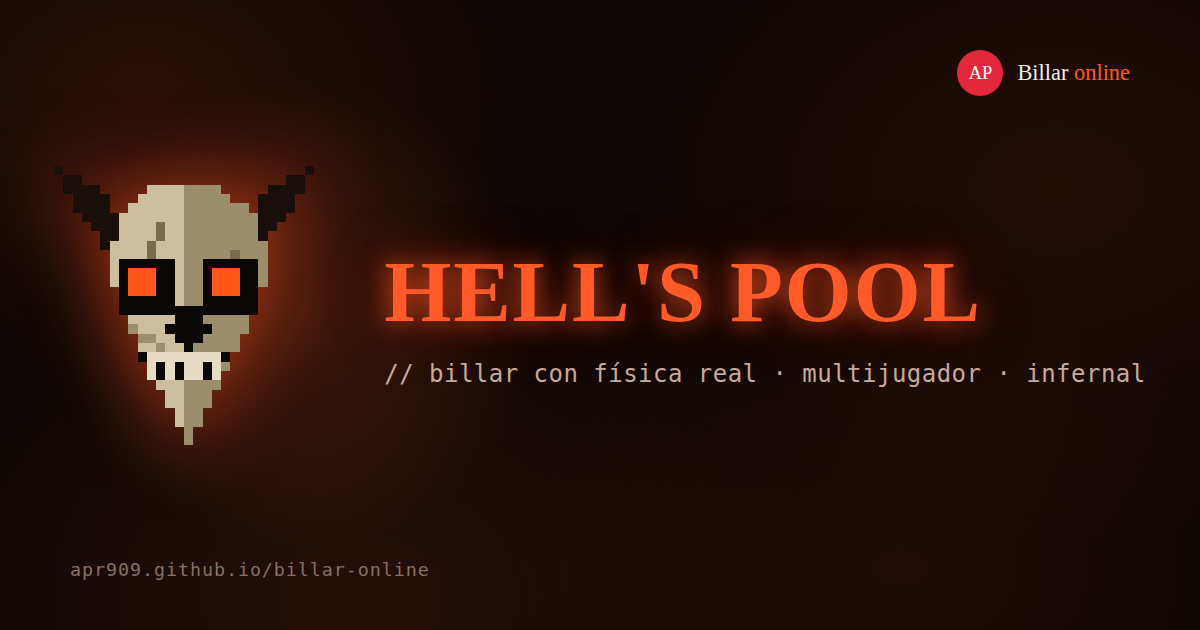
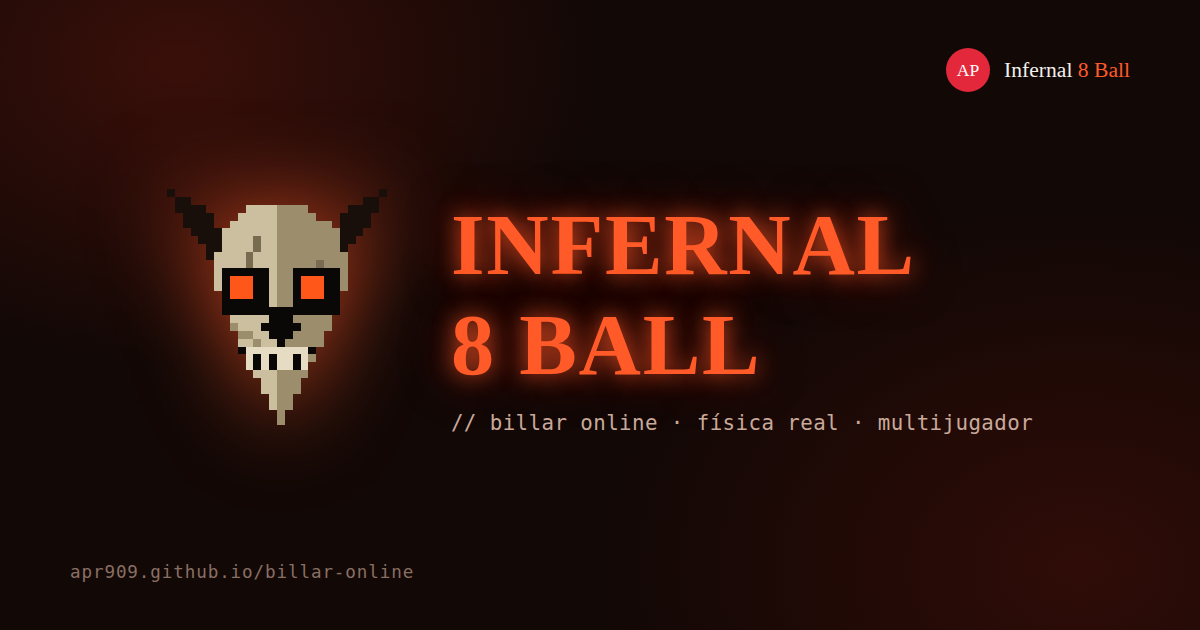
cambio de nombre

diff --git a/index.html b/index.html
@@ -3,19 +3,19 @@
 <head>
 <meta charset="UTF-8">
 <meta name="viewport" content="width=device-width, initial-scale=1.0">
-<title>Hell's Pool — Billar online</title>
+<title>Infernal 8 Ball</title>
 <meta name="description" content="Billar online con física de colisiones real, multijugador vía Firebase, ranking global y una temática infernal completa. Hecho desde cero en JavaScript y Canvas.">
 
 <meta property="og:type" content="website">
 <meta property="og:url" content="https://apr909.github.io/billar-online/">
-<meta property="og:title" content="Hell's Pool — Billar online">
+<meta property="og:title" content="Infernal 8 Ball">
 <meta property="og:description" content="Billar online con física de colisiones real, multijugador vía Firebase, ranking global y una temática infernal completa.">
 <meta property="og:image" content="https://apr909.github.io/billar-online/assets/og-image.png">
 <meta property="og:image:width" content="1200">
 <meta property="og:image:height" content="630">
 
 <meta name="twitter:card" content="summary_large_image">
-<meta name="twitter:title" content="Hell's Pool — Billar online">
+<meta name="twitter:title" content="Infernal 8 Ball">
 <meta name="twitter:description" content="Billar online con física de colisiones real, multijugador vía Firebase, ranking global y una temática infernal completa.">
 <meta name="twitter:image" content="https://apr909.github.io/billar-online/assets/og-image.png">
 
@@ -25,7 +25,7 @@
 <body>
 
 <header class="topbar">
-  <a class="brand" href="#"><span class="brand-mark">AP</span><span class="brand-name">Billar <em>online</em></span></a>
+  <a class="brand" href="#"><span class="brand-mark">AP</span><span class="brand-name">Infernal <em>8 Ball</em></span></a>
   <div class="topbar-right">
     <button id="btnMusicToggle" class="music-toggle" aria-pressed="true" title="Música de fondo">
       <svg viewBox="0 0 24 24" width="18" height="18" fill="none" stroke="currentColor" stroke-width="2">
@@ -45,7 +45,7 @@
       <img id="titleDemonImg" src="assets/face-title-closed.png" alt="" class="demon-logo demon-logo-title">
       <img src="assets/face-title-closed.png" alt="" class="demon-logo demon-logo-title demon-eye-glow" aria-hidden="true">
     </div>
-    <h1 class="title-huge">HELL'S POOL</h1>
+    <h1 class="title-huge">INFERNAL 8 BALL</h1>
     <p class="eyebrow mono title-sub">// prototipo · físicas locales</p>
     <button id="btnTitleContinue" class="btn-wide btn-wide-primary">Continuar</button>
   </div>
